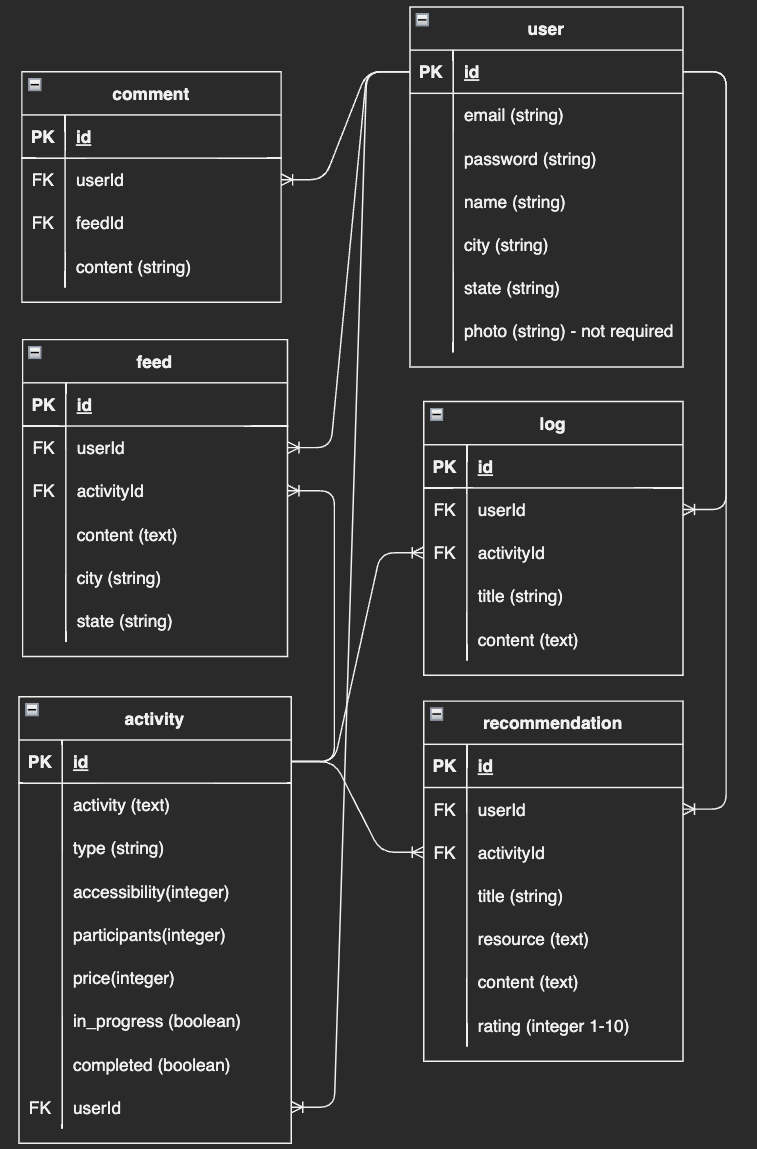
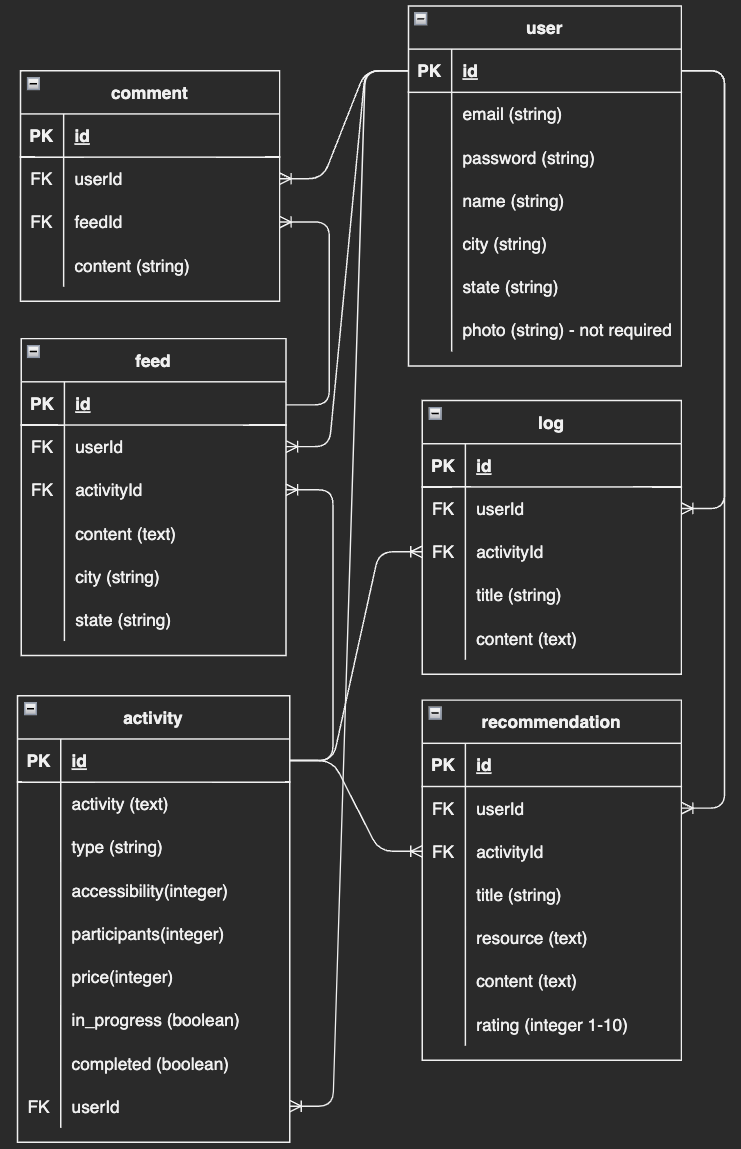
minor layout updates and updates on README

diff --git a/README.md b/README.md
@@ -1,9 +1,16 @@
 # ThisWeekend
 ## Description
 One of the hardest questions for me to answer has always been...what is your hobby?
-This app is for people like me who wants to have productive and eventful weekends full of activities, but always wind up binging on netflix because I simply don't know what exactly to do.
-I'll be integrating the Bored API (http://www.boredapi.com/api/activity/) to bring in random activities by category: ["education", "recreational", "social", "diy", "charity", "cooking", "relaxation", "music", "busywork"] and enable users to swipe through activities for inspiration and add items to their own todo list. 
+This app is for people like me who wants to have productive and eventful weekends full of activities, but always wind up binging on netflix because I simply don't know what to do.
+I integrated the Bored API (http://www.boredapi.com/api/activity/) to bring in random activities by category: ["education", "recreational", "social", "diy", "charity", "cooking", "relaxation", "music", "busywork"] and enable users to go through activities for inspiration and add items to their own todo list. Users are able to log their progress on each activity and once completed, they can write a review on the activity to share with others. For activities that require 2 or more participants, users have the ability to write a post to invite others (MeetUp feed)and comment on posts.
 * URL: https://thisweekend-valerieyang00.koyeb.app/
+
+## Installation 
+
+## Tech Used
+* Node.js - Express, Sequelize, EJS
+* PostgreSQL
+
 
 ## ERDs
 ![ERDs](./wireframes/ERDs.png)
@@ -11,21 +18,42 @@ I'll be integrating the Bored API (http://www.boredapi.com/api/activity/) to bri
 ## RESTful Routing Chart
 | HTTP METHOD  | URL | CRUD | Response           | Notes |
 | -------------------- | ------------- | ---- | --------           | ----- |
-| GET                  | /       | READ | List of search categories |Homepage with intro to site. Links to each Category in body. Nav Links to Saved & Feed      |
-| GET                  | /saved     | READ | List of all saved activities | Allow user to see their saved activities by category and links to write logs/ create recommendation |
-| GET                  | /:category | READ | Display activity for selected category | User can swipe through activity to pass or save each activity
-| GET                  | /recommendations | READ | all recommendations posted | User can view all recommendations posted public by all users
-| GET | /profile | READ | user data | display user profile
-| POST | /saved | CREATE | saved activity | save activity user chose (redirect to /saved)
-POST | /saved/logs | CREATE | Add logs to each activity "in progress" | User can add and post Logs to activities they've marked as "in progress"
-PUT | /saved/logs | UPDATE | Update logs posted | user can update logs posted on each activity
-GET | /saved/completed | READ | activity completed | user can view list of completed activities and have the option to select to write recommendations
-DELETE | /saved | DESTROY | delete saved | user can delete saved activity no longer wanted
-GET | /saved/recommendations | READ | user's recommendations | display recommendations by specific user
-POST | /recommendations/:activityId  | CREATE | post new recommendation | user can post new recommendation on completed activities
-PUT| recommendations/:activityId  | UPDATE | edit recommendation post | user can make edits to recommendation posted
-DELETE | recommendations/:activityId  | DESTROY | delete recommendation | user can delete posted recommendations
-
+| GET                  | /       | READ | List of Categories |Homepage with intro to site. Links to each Category in body. |
+| GET                  | /users/new     | READ | form to sign up|  user can input their information and upload profile photo
+| GET                  | /users/login| READ | form to login | User can login by providing email/password
+| GET                  | /users/profile | READ | user information and photo | user can view their information and have option to - change photo, change password, and edit info
+| GET | /users/profile/:userId| READ | form to edit user info | user can update email/username/city/state
+| PUT | /users/profile/pw/:userId | UPDATE | update password | user can supply old password and new password to update
+PUT | /users/profile/photo/:userId | UPDATE | update profile photo| User can upload new photo for profile
+GET | /:type | READ | display activity by selected category from API | user can click add/next from this page on each activity displayed
+POST | /saved | CREATE | add activity to saved list | user can click "add" button to save activity 
+GET | /saved/all | READ | list for all saved activities | user can view list of all activities saved by status (not started yet, in progress, completed)
+GET | /saved/tostart | READ | display saved activities with status "not yet started" | user can filter by status on navbar
+GET | /saved/inprogress | READ | display saved activities with status "in progress" | user can filter by status on navbar
+GET | /saved/completed  | READ | display saved activities with status "completed" | user can filter by status on navbar
+PUT| /saved/:activityId  | UPDATE | update status to "inprogress" or "completed" | user can make status updates by clicking "inprogress" or "completed" options under each saved activity
+DELETE | /saved/:activityId   | DESTROY | delete saved activity | user can delete each saved activity in all statuses
+GET | /saved/logs/:activityId | READ | display all logs posted for each activity and form to add new logs | user can view all logs with edit/delete button on each as well as form to add new log
+POST | /saved/logs/:activityId | CREATE | add new log to specific activity | user fills out the form to post a new log
+PUT | /saved/logs/:activityId/:logId | UPDATE | edit a log | user can edit content of log posted
+DELETE | /saved/logs/:activityId/:logId | DESTROY | delete alog | user can delete any logs posted
+GET | /reviews/:type | READ | display all reviews posted in each category or all | user can view reviews by all or each category by navbar dropdown
+GET | /reviews/users/:userId | READ | display all reviews posted by user | user can view reviews posted by them
+GET | /reviews/new/:activityId | READ | form to submit a reivew | user can fill out form to add a review for specific activity
+POST | /reviews/:userId/:activityId | CREATE | post new reivew | new review posts for specified activity and user
+GET | /reviews/edit/:reviewId | READ | form to edit review submitted by user| user can edit previously submitted review
+PUT | /reviews/edit/:reviewId | UPDATE | update review | user review updated with information submitted through edit form
+DELETE | /reviews/users/:userId/:reviewId | DESTROY | delete review | user can delete any reviews they previously submitted
+GET | /feed | READ | display all posts and comments for MeetUp | user can view all posts and corresponding comments from everyone in MeetUp
+GET | /feed/all?city=* | READ | display all posts that matches user's search | user can search cities to view posts matching the search 
+GET | /feed/users/:userId| READ | display all posts by user | user can see their submitted posts
+GET| /feed/new/:activityId| READ | form to add new post | user can post a new feed for specific activity with participant 2 or more
+POST| /feed/:activityId| CREATE | new post created from info on form | user can see new post in the Feed page and My Posts
+GET | /feed/edit/:feedId| READ | form to edit user's post | user can edit any posts they've previously posted
+PUT | /feed/:feedId| UPDATE | edit user's post | posts are updated with info from form
+DELETE | /feed/:userId/:feedId| DESTROY | delete user's post | user posts deleted
+POST| /feed/comments/:feedId| CREATE | new comment added | user can see new comment posted under each post
+GET | /logout | READ | delete user cookies | user is logged out
 
 ## Wireframes
 ![Wireframes](./wireframes/wireframes.png)
@@ -33,24 +61,23 @@ DELETE | recommendations/:activityId  | DESTROY | delete recommendation | user c
 ## User Stories
 * As a user, I want to choose which category I wish to explore for inspiration, and have the ability to swipe through activities and save ones I am interested in
 * As a user, I want to be able to log/journal experiences for activities I started to do, or completed
-* As a user, I want to be able to post recommendations for select activities to let other users know of my experience, and why I recommend.
-* As a user, I want to see what other users have done and recommend, and any resources they have provided
+* As a user, I want to be able to post reviews for select activities to let other users know of my experience
+* As a user, I want to see what other users have done and reviewed, and any resources they have provided
 * As a user, I want to be able to connect with other users in my area 
 
-## MVP goals
-* Render activities pulled from Bored API by category, and give user the option to pass or save on each activity displayed
-* Add Delete function to each saved activity for user to destroy any items no longer wanted
-* Create forms for users to post personal logs/reflections on each activity in progress/completed
-* Display logs posted for each activity in progress or completed
-* Enable Edit/Update for logs posted
 
 ## Stretch goals
-* Create forms for posting recommendations (for public feed) once user marks an activity as completed
-* Render 'recommendations' feed page where all users' recommendation posts are displayed. Add filter by category
+* Create forms for posting reviews (for public) once user marks an activity as completed
+* Render 'reviews' feed page where all users' recommendation posts are displayed. Add filter by category
 * Add swipe functionality to activities page by category
-* Add comments section for each recommendation posted - create comment model 1:M to recommendations
-* Add social page where users can reach out to other users in the close by location for activities requiring multiple people (by using 'Participants' from API)
+* Add social page where users can reach out to other users (search by location) for activities requiring multiple people (by using 'Participants' from API)
+* Add comments section for each social feed posted - create comment model 1:M to feeds
+* Extra functionalities in profile - change password (match old password, then update to new password encrypted), upload photo (during sign up) from local files, and have ability to update photo in profile
 * Use another API (geoapify) for user to find eateries/things to do in selected location/area as bonus aspect in finding "what to do"
+
+## Post-project reflection
+
+
 
 
 
